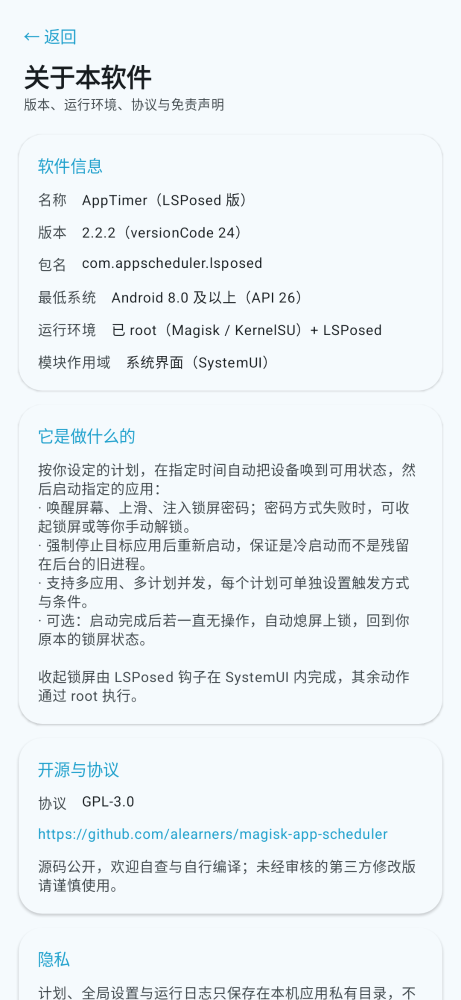
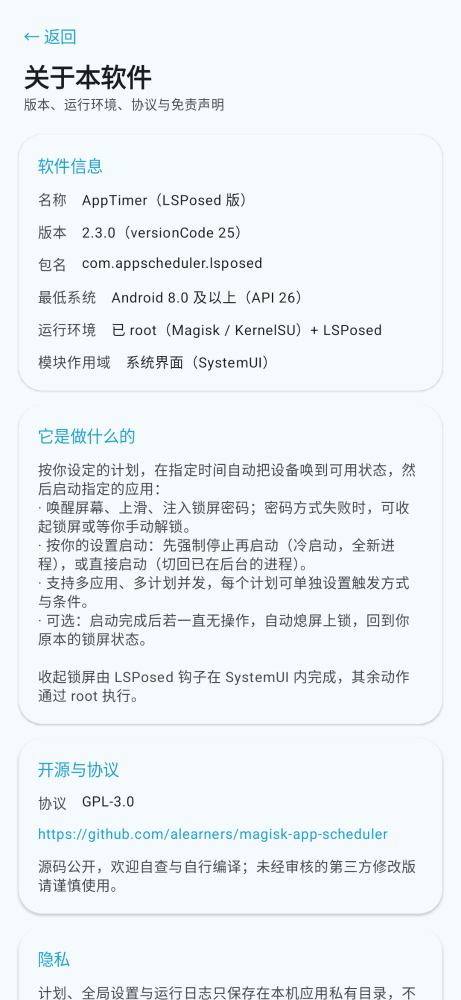
feat(lsposed): 启动前是否强制停止目标应用改为可配置项，2.3.0

Changed region(s): [[0.0911, 0.527, 0.6377, 0.589], [0.7289, 0.527, 0.8807, 0.558], [0.4859, 0.217, 0.5163, 0.248]]

diff --git a/lsposed/app/src/main/java/com/appscheduler/lsposed/ui/HelpScreen.kt b/lsposed/app/src/main/java/com/appscheduler/lsposed/ui/HelpScreen.kt
@@ -35,8 +35,8 @@ enum class HelpPage(val title: String) {
 /** 关于页要展示的软件信息，由调用方填，方便截图测试注入固定值 */
 data class AboutInfo(
     val appName: String = "AppTimer",
-    val versionName: String = "2.2.2",
-    val versionCode: Long = 24,
+    val versionName: String = "2.3.0",
+    val versionCode: Long = 25,
     val packageName: String = "com.appscheduler.lsposed",
     val minSdk: Int = 26,
     val repoUrl: String = "https://github.com/alearners/magisk-app-scheduler",
@@ -202,6 +202,9 @@ private fun ConfigDocPage(onBack: () -> Unit, modifier: Modifier = Modifier) {
                 "锁屏密码：设备的数字锁屏密码，用于自动解锁时注入。只支持纯数字；字母和符号在 input 注入里容易被转义。\n\n" +
                     "等用户手动解锁后再启动：自动解锁失败时不放弃，改为等你解锁后立刻启动应用（需通知权限才能提醒你）。\n\n" +
                     "最长等待秒数（10–1800）：等待手动解锁的上限，超时就放弃本次任务并写日志 / 发通知。填太小（比如 10 秒）容易还没看到提醒就超时。\n\n" +
+                    "启动前强制停止目标应用：\n" +
+                    "  · 打开：启动前先结束该应用，保证是全新进程、从头进入。\n" +
+                    "  · 关闭：直接启动，已在后台的进程会被切回前台，界面留在原处，启动更快。\n\n" +
                     "启动后无操作自动锁屏：应用起来后若你一直没碰屏幕，过一段时间自动熄屏上锁。到点时前台已经不是目标应用（说明你切走了）会自动跳过，不会误锁。\n\n" +
                     "无操作多少秒后锁屏（2–600）：上面的延时。太短来不及看清界面，建议 5–30 秒。\n\n" +
                     "用应用内部计时器计时：\n" +
@@ -260,7 +263,7 @@ private fun AboutPage(about: AboutInfo, onBack: () -> Unit, modifier: Modifier =
             HelpParagraph(
                 "按你设定的计划，在指定时间自动把设备唤到可用状态，然后启动指定的应用：\n" +
                     "· 唤醒屏幕、上滑、注入锁屏密码；密码方式失败时，可收起锁屏或等你手动解锁。\n" +
-                    "· 强制停止目标应用后重新启动，保证是冷启动而不是残留在后台的旧进程。\n" +
+                    "· 按你的设置启动：先强制停止再启动（冷启动，全新进程），或直接启动（切回已在后台的进程）。\n" +
                     "· 支持多应用、多计划并发，每个计划可单独设置触发方式与条件。\n" +
                     "· 可选：启动完成后若一直无操作，自动熄屏上锁，回到你原本的锁屏状态。\n\n" +
                     "收起锁屏由 LSPosed 钩子在 SystemUI 内完成，其余动作通过 root 执行。"

diff --git a/lsposed/app/src/main/java/com/appscheduler/lsposed/ui/MainScreen.kt b/lsposed/app/src/main/java/com/appscheduler/lsposed/ui/MainScreen.kt
@@ -74,6 +74,7 @@ fun MainScreen() {
     var autoLock by remember { mutableStateOf(prefs.autoLock()) }
     var autoLockDelay by remember { mutableStateOf(prefs.autoLockDelay().toString()) }
     var timerMode by remember { mutableStateOf(prefs.timerMode()) }
+    var forceColdStart by remember { mutableStateOf(prefs.forceColdStart()) }
 
     var logTab by remember { mutableStateOf(LogTab.CURRENT) }
     var logCurrent by remember { mutableStateOf(LogStore.readCurrent(context)) }
@@ -116,6 +117,7 @@ fun MainScreen() {
         autoLock = prefs.autoLock()
         autoLockDelay = prefs.autoLockDelay().toString()
         timerMode = prefs.timerMode()
+        forceColdStart = prefs.forceColdStart()
     }
 
     // 进页面、切到日志/权限 tab 时刷新对应的实时内容
@@ -289,7 +291,8 @@ fun MainScreen() {
             manualWait.toIntOrNull() ?: Config.DEFAULT_MANUAL_WAIT,
             autoLock,
             autoLockDelay.toIntOrNull() ?: Config.DEFAULT_AUTO_LOCK_DELAY,
-            timerMode
+            timerMode,
+            forceColdStart
         )
         // 计时方式可能变了：切内部计时器要拉起常驻服务，切回闹钟要重排闹钟
         Scheduler.applyMode(context)
@@ -458,6 +461,8 @@ fun MainScreen() {
                             onAutoLockDelayChange = { autoLockDelay = it },
                             timerMode = timerMode,
                             onTimerModeChange = { timerMode = it },
+                            forceColdStart = forceColdStart,
+                            onForceColdStartChange = { forceColdStart = it },
                             onSaveSettings = { saveSettings() },
                             onOpenLog = { tab = MainTab.LOG },
                             onOpenHelp = { tab = MainTab.HELP },

diff --git a/lsposed/app/src/main/java/com/appscheduler/lsposed/RunCoordinator.kt b/lsposed/app/src/main/java/com/appscheduler/lsposed/RunCoordinator.kt
@@ -114,7 +114,7 @@ object RunCoordinator {
             log.append("锁屏状态: false，直接启动\n")
         }
 
-        val ok = TaskRunner.launch(runnable, log)
+        val ok = TaskRunner.launch(runnable, config.forceColdStart(), log)
         LogStore.append(context, log.toString())
         if (!ok) {
             TaskRunner.notifyFailure(context, log.toString())
@@ -168,7 +168,7 @@ object RunCoordinator {
                 applyResult(context, task, false)
                 continue
             }
-            val ok = TaskRunner.launch(runnable, log)
+            val ok = TaskRunner.launch(runnable, Config.get(context).forceColdStart(), log)
             LogStore.append(context, log.toString())
             if (!ok) {
                 TaskRunner.notifyFailure(context, log.toString())
@@ -239,7 +239,7 @@ object RunCoordinator {
             TaskRunner.notifyFailure(context, log.toString())
             return false
         }
-        val ok = TaskRunner.launch(runnable, log)
+        val ok = TaskRunner.launch(runnable, config.forceColdStart(), log)
         LogStore.append(context, log.toString())
         if (!ok) {
             TaskRunner.notifyFailure(context, log.toString())

diff --git a/lsposed/app/src/main/java/com/appscheduler/lsposed/ui/TaskListScreen.kt b/lsposed/app/src/main/java/com/appscheduler/lsposed/ui/TaskListScreen.kt
@@ -58,6 +58,8 @@ fun TaskListScreen(
     onAutoLockDelayChange: (String) -> Unit = {},
     timerMode: String = Config.TIMER_ALARM,
     onTimerModeChange: (String) -> Unit = {},
+    forceColdStart: Boolean = Config.DEFAULT_FORCE_COLD_START,
+    onForceColdStartChange: (Boolean) -> Unit = {},
     onSaveSettings: () -> Unit,
     onOpenLog: () -> Unit,
     onOpenHelp: () -> Unit = {},
@@ -160,6 +162,19 @@ fun TaskListScreen(
                     modifier = Modifier.fillMaxWidth()
                 )
             }
+
+            HorizontalDivider(color = MaterialTheme.colorScheme.outlineVariant)
+
+            SwitchRow(
+                title = "启动前强制停止目标应用",
+                description = if (forceColdStart) {
+                    "开启：先结束该应用再启动，保证是全新进程、从头进入"
+                } else {
+                    "关闭：直接启动，已在后台的进程会被切回前台，界面留在原处"
+                },
+                checked = forceColdStart,
+                onCheckedChange = onForceColdStartChange
+            )
 
             HorizontalDivider(color = MaterialTheme.colorScheme.outlineVariant)
 

diff --git a/lsposed/app/src/main/java/com/appscheduler/lsposed/transfer/ConfigTransfer.kt b/lsposed/app/src/main/java/com/appscheduler/lsposed/transfer/ConfigTransfer.kt
@@ -54,6 +54,7 @@ object ConfigTransfer {
         global.put("autoLock", config.autoLock())
         global.put("autoLockDelay", config.autoLockDelay())
         global.put("timerMode", config.timerMode())
+        global.put("forceColdStart", config.forceColdStart())
         root.put("global", global)
 
         val tasks = JSONArray()
@@ -94,7 +95,8 @@ object ConfigTransfer {
                 g.optInt("manualWait", Config.DEFAULT_MANUAL_WAIT),
                 g.optBoolean("autoLock", false),
                 g.optInt("autoLockDelay", Config.DEFAULT_AUTO_LOCK_DELAY),
-                g.optString("timerMode", Config.TIMER_ALARM)
+                g.optString("timerMode", Config.TIMER_ALARM),
+                g.optBoolean("forceColdStart", Config.DEFAULT_FORCE_COLD_START)
             )
         }
 

diff --git a/lsposed/app/src/main/java/com/appscheduler/lsposed/TaskRunner.java b/lsposed/app/src/main/java/com/appscheduler/lsposed/TaskRunner.java
@@ -81,27 +81,22 @@ public class TaskRunner {
         return runnable;
     }
 
-    /** 强制停止并逐个启动，解锁已在此之前完成 */
-    public static boolean launch(List<String> runnable, StringBuilder log) {
+    /**
+     * 逐个启动应用，解锁已在此之前完成。
+     *
+     * @param forceColdStart true 先强制停止再启动（冷启动）；false 直接启动，已运行的进程会被切回前台
+     */
+    public static boolean launch(List<String> runnable, boolean forceColdStart, StringBuilder log) {
         boolean allOk = true;
         for (String pkg : runnable) {
-            su("am force-stop " + pkg);
-            log.append("已强制停止 ").append(pkg).append('\n');
-
-            Result monkey = su("monkey -p " + pkg + " -c android.intent.category.LAUNCHER 1");
-            boolean ok = monkey.code == 0;
-            if (ok) {
-                log.append("已通过 monkey 启动 ").append(pkg).append('\n');
+            boolean ok;
+            if (forceColdStart) {
+                su("am force-stop " + pkg);
+                log.append("已强制停止 ").append(pkg).append("，准备冷启动\n");
+                ok = launchByMonkey(pkg, log);
             } else {
-                String resolved = resolveLauncherActivity(pkg);
-                if (resolved != null) {
-                    Result start = su("am start -n " + resolved);
-                    ok = start.code == 0;
-                    log.append(ok ? ("已通过 am start 启动 " + resolved + "\n")
-                            : ("am start 失败: " + resolved + "\n"));
-                } else {
-                    log.append("无法解析启动 Activity: ").append(pkg).append('\n');
-                }
+                log.append("不强制停止 ").append(pkg).append("，直接启动\n");
+                ok = launchDirect(pkg, log);
             }
             if (!ok) {
                 allOk = false;
@@ -109,6 +104,43 @@ public class TaskRunner {
             sleep(600);
         }
         return allOk;
+    }
+
+    /** 冷启动：monkey 拉起 Launcher Activity，失败再按 resolved 组件启动 */
+    private static boolean launchByMonkey(String pkg, StringBuilder log) {
+        Result monkey = su("monkey -p " + pkg + " -c android.intent.category.LAUNCHER 1");
+        if (monkey.code == 0) {
+            log.append("已通过 monkey 启动 ").append(pkg).append('\n');
+            return true;
+        }
+        String resolved = resolveLauncherActivity(pkg);
+        if (resolved != null) {
+            Result start = su("am start -n " + resolved);
+            boolean ok = start.code == 0;
+            log.append(ok ? ("已通过 am start 启动 " + resolved + "\n")
+                    : ("am start 失败: " + resolved + "\n"));
+            return ok;
+        }
+        log.append("无法解析启动 Activity: ").append(pkg).append('\n');
+        return false;
+    }
+
+    /**
+     * 直接启动：优先 am start 目标 Activity——应用还在后台时这是「切回前台」，
+     * 进程和界面状态都保留；解析不到组件时退回 monkey。
+     */
+    private static boolean launchDirect(String pkg, StringBuilder log) {
+        String resolved = resolveLauncherActivity(pkg);
+        if (resolved != null) {
+            Result start = su("am start -n " + resolved);
+            boolean ok = start.code == 0;
+            log.append(ok ? ("已切到前台或新开 " + resolved + "\n")
+                    : ("am start 失败: " + resolved + "\n"));
+            if (ok) {
+                return true;
+            }
+        }
+        return launchByMonkey(pkg, log);
     }
 
     /**

diff --git a/lsposed/app/src/main/java/com/appscheduler/lsposed/Config.java b/lsposed/app/src/main/java/com/appscheduler/lsposed/Config.java
@@ -21,6 +21,8 @@ public class Config {
     public static final String KEY_AUTO_LOCK_DELAY = "auto_lock_delay";
     /** 调度触发的时间基准：系统闹钟（alarm）或应用内部计时器（internal） */
     public static final String KEY_TIMER_MODE = "timer_mode";
+    /** 解锁后启动目标应用的方式：true 先强制停止再启动（冷启动），false 直接启动 / 切回已运行的进程 */
+    public static final String KEY_FORCE_COLD_START = "force_cold_start";
 
     public static final String DEFAULT_PKG = "com.example.app";
     /** 不预置任何密码，必须在界面里填写；留空时跳过密码注入，只走上滑 + 兜底 */
@@ -34,6 +36,9 @@ public class Config {
     public static final String TIMER_ALARM = "alarm";
     public static final String TIMER_INTERNAL = "internal";
     public static final String DEFAULT_TIMER_MODE = TIMER_ALARM;
+
+    /** 默认保持原有行为：先强制停止再启动，保证是冷启动 */
+    public static final boolean DEFAULT_FORCE_COLD_START = true;
 
     private final SharedPreferences sp;
 
@@ -117,6 +122,15 @@ public class Config {
         return TIMER_INTERNAL.equals(timerMode());
     }
 
+    /**
+     * 解锁后启动目标应用时，是否先强制停止。
+     * true：先 am force-stop 再启动，保证是冷启动；
+     * false：直接启动 / 把已有的任务切回前台，保留原进程与界面状态。
+     */
+    public boolean forceColdStart() {
+        return sp.getBoolean(KEY_FORCE_COLD_START, DEFAULT_FORCE_COLD_START);
+    }
+
     public void save(String pkg, String password, String times, boolean enabled) {
         sp.edit()
                 .putString(KEY_PKG, pkg == null ? "" : pkg.trim())
@@ -152,7 +166,8 @@ public class Config {
     }
 
     public void saveGlobal(boolean enabled, String password, boolean manualFallback, int manualWait,
-                           boolean autoLock, int autoLockDelay, String timerMode) {
+                           boolean autoLock, int autoLockDelay, String timerMode,
+                           boolean forceColdStart) {
         sp.edit()
                 .putBoolean(KEY_ENABLED, enabled)
                 .putString(KEY_PASSWORD, password == null ? "" : password.trim())
@@ -161,6 +176,7 @@ public class Config {
                 .putBoolean(KEY_AUTO_LOCK, autoLock)
                 .putInt(KEY_AUTO_LOCK_DELAY, autoLockDelay)
                 .putString(KEY_TIMER_MODE, TIMER_INTERNAL.equals(timerMode) ? TIMER_INTERNAL : TIMER_ALARM)
+                .putBoolean(KEY_FORCE_COLD_START, forceColdStart)
                 .apply();
     }
 }

diff --git a/lsposed/README.md b/lsposed/README.md
@@ -17,13 +17,15 @@
 
 功能对齐的几项（两边都有）：多 App 顺序启动、解锁校验与兜底、无操作自动锁屏（可配秒数、切走不误锁）、计时基准二选一、失败通知与日志、**配置导出与导入**。
 
+启动方式由「配置 → 全局设置」里的「启动前强制停止目标应用」决定：打开时先 `am force-stop` 再启动（冷启动，全新进程）；关闭时不杀进程，直接 `am start` 把已在后台的应用切回前台，界面停在原处、启动更快。
+
 ## 界面结构
 
 底部菜单栏四个入口，所有页面都在这里进：
 
 | Tab | 内容 |
 | --- | --- |
-| 配置 | 调度总开关、计划列表（新建 / 编辑 / 删除 / 立即执行）、全局设置（锁屏密码、手动解锁兜底、最长等待、自动锁屏与延时、计时方式）、系统权限提示 |
+| 配置 | 调度总开关、计划列表（新建 / 编辑 / 删除 / 立即执行）、全局设置（锁屏密码、手动解锁兜底、最长等待、启动前是否强制停止、自动锁屏与延时、计时方式）、系统权限提示 |
 | 日志 | 「当前日志 / 所有日志」两个视图，可分别刷新与清除 |
 | 权限 | 通知、精确闹钟、省电白名单、root、LSPosed 作用域、应用列表、厂商后台限制逐项体检，缺哪项就点哪项去申请 |
 | 帮助 | 使用步骤、**配置说明**（逐项解释每个开关）、**配置备份**（导出 / 导入）、常见问题，以及 **关于本软件**（版本、运行环境、开源协议、隐私与免责声明） |
@@ -58,10 +60,10 @@ JSON 结构（`schema=1`）：
   "app": "AppTimer",
   "schema": 1,
   "exportedAt": "2026-11-10T11:00:00",
-  "versionName": "2.1.0",
+  "versionName": "2.3.0",
   "global": {
     "enabled": true, "password": "……", "manualFallback": true, "manualWait": 120,
-    "autoLock": false, "autoLockDelay": 5, "timerMode": "alarm"
+    "autoLock": false, "autoLockDelay": 5, "timerMode": "alarm", "forceColdStart": true
   },
   "tasks": [ { "name": "…", "packages": ["…"], "scheduleType": "INTERVAL", "intervalMinutes": 60, … } ]
 }
@@ -77,7 +79,7 @@ JSON 结构（`schema=1`）：
 | --- | --- |
 | applicationId | `com.appscheduler.lsposed` |
 | 显示名 | `AppTimer` |
-| 版本 | `versionCode 24` / `versionName 2.2.2` |
+| 版本 | `versionCode 25` / `versionName 2.3.0` |
 | 最低支持 | Android 8.0（API 26） |
 | 目标 SDK | 34 |
 | 签名 | 仓库固定密钥（`CN=App Scheduler, O=alearners, C=CN`），证书 SHA-256 `10948BFB9…000B2E5` |
@@ -128,5 +130,6 @@ cd lsposed
 5. 同一轮里触发后立刻切到别的界面，确认日志出现「前台已是…，判定为用户已接管，跳过」，且屏幕没有被关掉；
 6. 进「帮助」页点「导出配置」存一份，删掉一个计划后再点「导入配置」，确认计划与全局设置都回到导出时的状态、日志里出现「导入配置：已导入 N 个计划」；
 7. 「日志」页切到「所有日志」确认能看到轮转前的历史，再分别点「清除当前日志」「清除所有日志」，确认对应视图变空、另一份不受影响。
+8. 在「全局设置」里关掉「启动前强制停止目标应用」，先把目标 App 打开再切走，等一轮触发，确认日志出现「不强制停止 …，直接启动」且 App 回到原来的界面；重新打开该开关，下一轮日志应是「已强制停止 …，准备冷启动」。
 
 任何一步不符合预期，先看日志再改参数；不要同时改多个设置。
